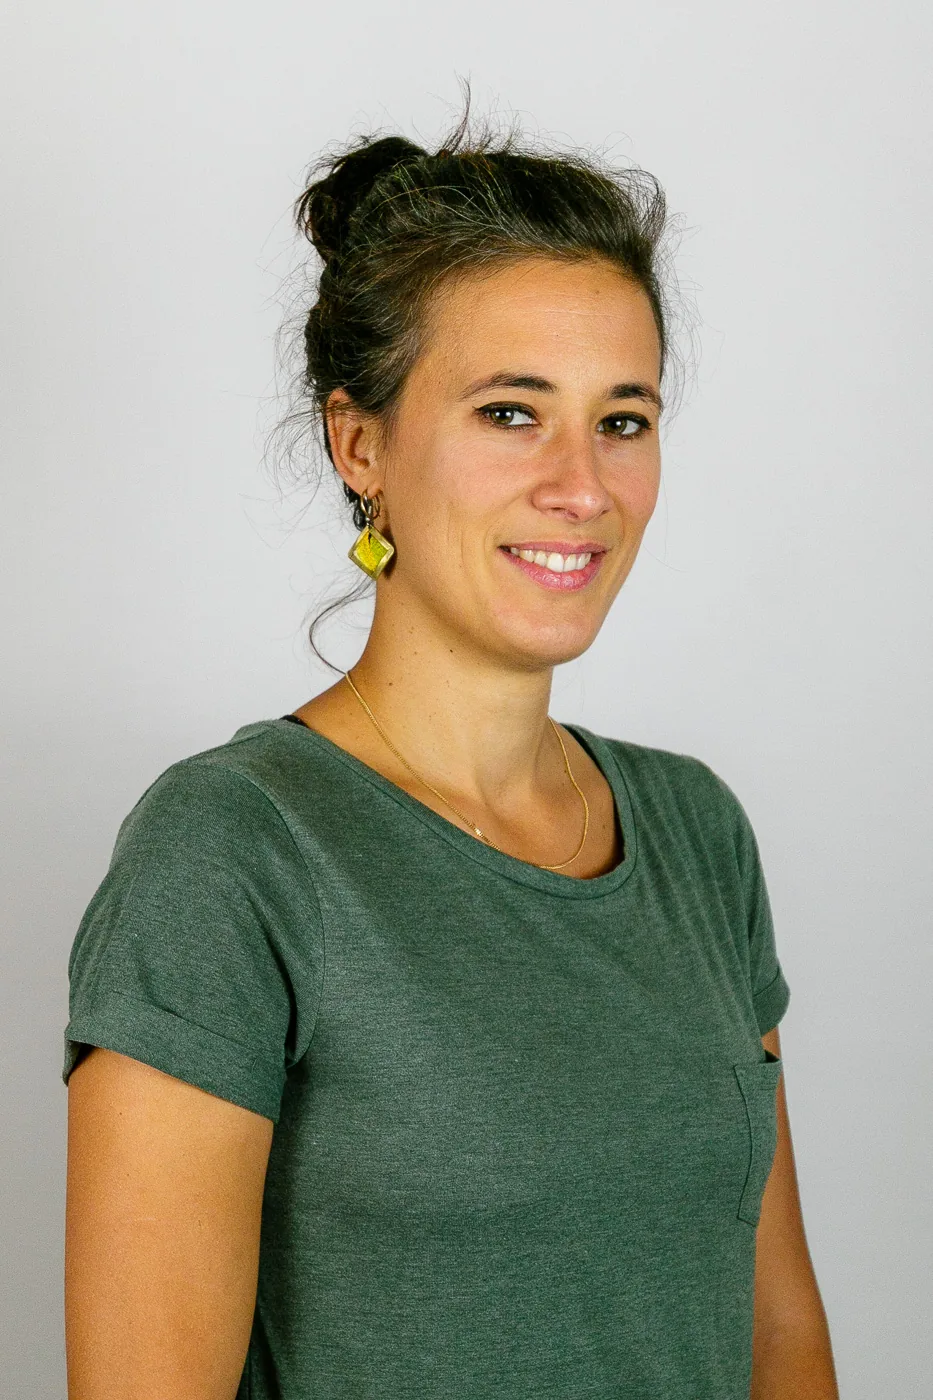
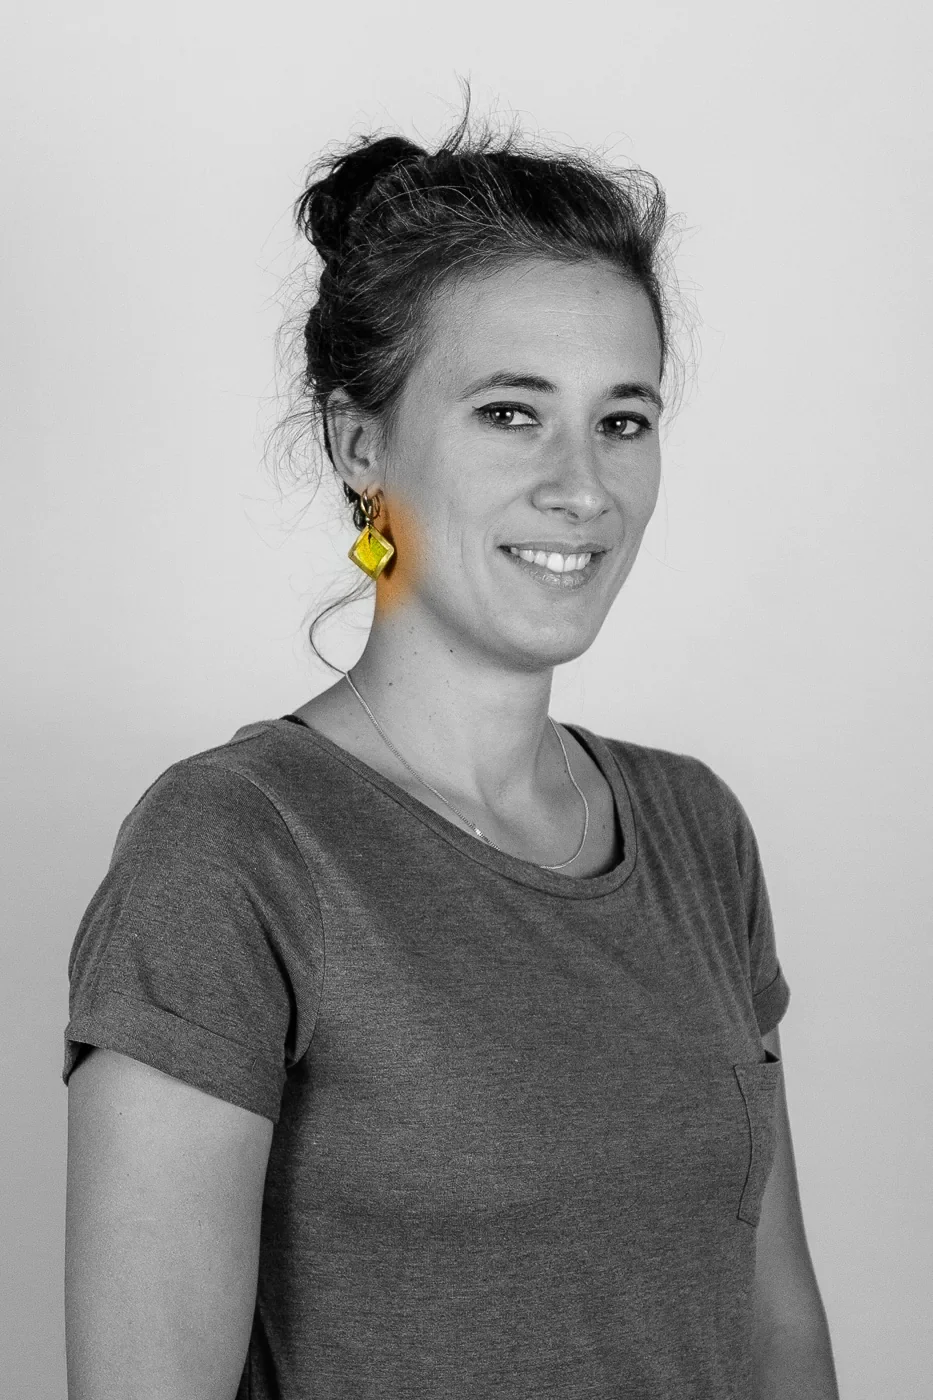
titre bleu + photo aline n&b

diff --git a/index.html b/index.html
@@ -182,17 +182,17 @@ ul{list-style:none}
 
 /* ---- HELPERS ---- */
 .wrap{max-width:1100px;margin:0 auto;padding:0 2rem}
-.lbl{font-family:var(--sans);font-size:.68rem;font-weight:600;letter-spacing:.18em;text-transform:uppercase;color:var(--earth);margin-bottom:.9rem;display:block}
-.h2{font-family:var(--serif);font-size:clamp(1.9rem,3.5vw,2.7rem);font-weight:400;line-height:1.2}
-.h2 em{font-style:italic;color:var(--deep)}
+.lbl{font-family:var(--sans);font-size:.68rem;font-weight:600;letter-spacing:.18em;text-transform:uppercase;color:var(--lav);margin-bottom:.9rem;display:block}
+.h2{font-family:var(--serif);font-size:clamp(1.9rem,3.5vw,2.7rem);font-weight:400;line-height:1.2;color:var(--lav)}
+.h2 em{font-style:italic;color:#44489E}
 .bar{width:44px;height:2px;background:var(--sage);margin:1.2rem 0 1.5rem}
 .btn{display:inline-block;padding:.8rem 1.8rem;border-radius:3px;font-family:var(--sans);font-size:.8rem;font-weight:600;letter-spacing:.05em;transition:background .35s cubic-bezier(.4,0,.2,1),transform .35s cubic-bezier(.4,0,.2,1),box-shadow .35s cubic-bezier(.4,0,.2,1),color .35s cubic-bezier(.4,0,.2,1),border-color .35s cubic-bezier(.4,0,.2,1);cursor:pointer;border:none}
 .btn-p{background:var(--sage);color:#fff}
 .btn-p:hover{background:var(--deep);transform:translateY(-2px);box-shadow:0 8px 24px rgba(201,168,44,.25)}
 .btn-o{border:1.5px solid var(--deep);color:var(--deep);background:transparent}
 .btn-o:hover{background:var(--deep);color:#fff;transform:translateY(-2px)}
-.btn-e{background:var(--earth);color:#fff}
-.btn-e:hover{background:#7e6040;transform:translateY(-2px)}
+.btn-e{background:var(--deep);color:#fff}
+.btn-e:hover{background:#b8932b;transform:translateY(-2px)}
 
 /* ---- NAV ---- */
 .nav{position:fixed;top:0;left:0;right:0;z-index:100;background:rgba(255,251,242,.95);backdrop-filter:blur(10px);border-bottom:1px solid var(--line);height:90px;display:flex;align-items:center}
@@ -434,15 +434,15 @@ ul{list-style:none}
 
 /* ---- REBOZO ---- */
 .rebozo{padding:5rem 0;background:transparent;position:relative;overflow:hidden}
-.rebozo::before{content:'';position:absolute;top:0;left:0;right:0;height:3px;background:linear-gradient(90deg,var(--earth),var(--sage),var(--earth))}
+.rebozo::before{content:'';position:absolute;top:0;left:0;right:0;height:3px;background:linear-gradient(90deg,var(--deep),var(--sage),var(--deep))}
 .rebozo-grid{display:grid;grid-template-columns:1fr 1.2fr 1fr;gap:3rem;align-items:center}
 .rebozo-img{border-radius:6px;overflow:hidden;aspect-ratio:3/4;max-height:480px}
 .rebozo-img img{width:100%;height:100%;object-fit:cover;display:block;filter:saturate(.9) contrast(.95)}
 .rebozo-details{display:flex;flex-direction:column;gap:.65rem;margin:1.5rem 0}
 .rebozo-detail{display:flex;align-items:flex-start;gap:.65rem;font-size:.85rem;line-height:1.5}
-.rebozo-detail::before{content:'\2022';color:var(--earth);flex-shrink:0}
-.rebozo-price{background:var(--earth-pale);border:1px solid rgba(139,115,85,.2);border-radius:5px;padding:1.5rem;text-align:center;margin-top:1.5rem}
-.rebozo-price .price{font-family:var(--serif);font-size:2rem;color:var(--earth);font-weight:500}
+.rebozo-detail::before{content:'\2022';color:var(--deep);flex-shrink:0}
+.rebozo-price{background:var(--sage-pale);border:1px solid rgba(201,168,44,.25);border-radius:5px;padding:1.5rem;text-align:center;margin-top:1.5rem}
+.rebozo-price .price{font-family:var(--serif);font-size:2rem;color:var(--deep);font-weight:500}
 .rebozo-price p{font-size:.75rem;color:var(--mid);margin-top:.3rem}
 
 /* ---- PERINATAL ---- */